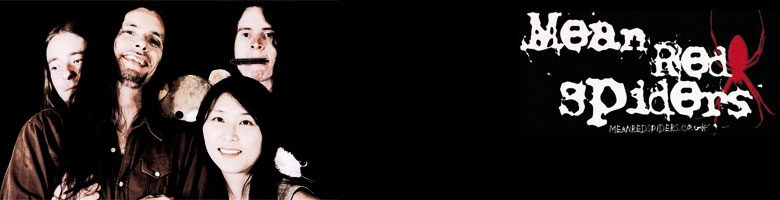
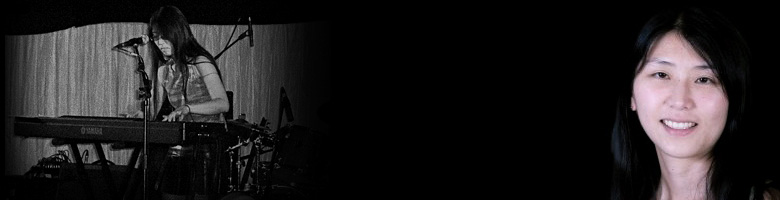
initial commit

diff --git a/web/index.html b/web/index.html
@@ -8,14 +8,14 @@
   <link rel="shortcut icon" type="image/x-icon" href="#" />
   <style type="text/css">
   /*<![CDATA[*/
-    @import url("common/mrs_screen.css") screen;
-    @import url("common/mrs_print.css") print;
+    @import url("common/yukibusiness_screen.css") screen;
+    @import url("common/yukibusiness_print.css") print;
   /*]]>*/
   </style>
   <!--[if lt IE 8]>
     <script src="common/IE8.js" type="text/javascript"></script>
   <![endif]-->
-  <title>Mean Red Spiders / Test Page</title>
+  <title>Yuki&#8217;s Business &hearts; Test Page</title>
 </head>
 <body>
 
@@ -28,8 +28,8 @@
   -->
   <div id="headWrapper">  <!-- START HEADER WRAPPER -->
     <div id="headText">  <!-- START HEADER TEXT -->
-      <div class="slogan">  <!-- START SLOGAN -->
-        <strong>&#8220;Bristols best (and hairiest) Blues band!&#8221;</strong>
+      <div id="logoTxt">  <!-- START SLOGAN -->
+        Yuki&#8217;s <span class="red">&hearts;</span> Business Site
       </div>  <!-- END SLOGAN -->
     </div>  <!-- END HEADER TEXT -->
   </div>  <!-- END HEADER WRAPPER -->
@@ -62,37 +62,49 @@
          ================================================================
     -->
     <div id="navPanel">  <!-- START NAVIGATION PANEL -->
-      <div id="navLinks">  <!-- START NAVIGATION LINKS -->
+      <div id="navPanelTop">  <!-- START NAVIGATION PANEL TOP -->
         <h2>Navigation</h2>
         <p>
         Please select a link from below to go to that area.
         </p>
         <ul>
         <li>
-          <a href="#">See us live (dates)</a>
+          <a href="#">Lorem vero ut veniam</a>
         </li><li>
-          <a href="#">About the band</a>
+          <a href="#">praesent accumsan</a>
         </li><li>
-          <a href="#">Band history</a>
+          <a href="#">facilisis dignissim</a>
         </li><li>
-          <a href="#">Our instruments</a>
+          <a href="#">vero ut veniam</a>
         </li><li>
-          <a href="#">Our new (live) album</a>
+          <a href="#">praesent accumsan</a>
         </li><li>
-          <a href="#">Kudos, et al...</a>
+          <a href="#">facilisis dignissim</a>
         </li>
         </ul>
-      </div>  <!-- END NAVIGATION LINKS -->
-      <div id="navCont">  <!-- START NAVIGATION REMAINDER CONTENT -->
-        <h2>New Album</h2>
-        <p>
-        Our new album is now available, details below.
-        </p>
-        <a href="#" title="Test text for linked image"><img src="imgs/shared/smAlbumCover.jpg" alt="" width="122" height="122" class="imgC" /></a>
+        <h2>Yuki's Piano</h2>
         <p>
         Some test text to see how the colours will work accumsan eum facilisis dignissim esse.
         </p>
-      </div>  <!-- END NAVIGATION REMAINDER CONTENT -->
+        <ul>
+        <li>
+          <a href="#">Lorem vero ut veniam</a>
+        </li><li>
+          <a href="#">praesent accumsan</a>
+        </li><li>
+          <a href="#">facilisis dignissim</a>
+        </li>
+        </ul>
+        <p>
+        Some test text to see how the colours will work accumsan eum facilisis dignissim esse.
+        </p>
+      </div>  <!-- END NAVIGATION PANEL TOP -->
+      <div id="navPanelBott">  <!-- START NAVIGATION PANEL BOTTOM -->
+        <p>
+        Love &amp; Joy &#8230;
+        </p>
+        Yuki <span class="red">&hearts;</span>
+      </div>  <!-- END NAVIGATION PANEL BOTTOM -->
     </div>  <!-- END NAVIGATION PANEL -->
 
     <div class="clearBreadcrumbs"></div>
@@ -103,24 +115,23 @@
          ============================================================
     -->
     <div id="newsPanel">  <!-- START LEFT HAND NEWS PANEL -->
-      <h2>The Band</h2>
-      <dl class="bandMembers">
-        <dt><a href="#" title="Dave Harker">Dave Harker</a></dt>
-          <dd>Guitar, Vocals</dd>
-        <dt><a href="#" title="Yuki">Yuki</a></dt>
-          <dd>Keyboard, Bass, Vocals</dd>
-        <dt><a href="#" title="Jon Vaughan">Jon Vaughan</a></dt>
-          <dd>Harmonica</dd>
-        <dt><a href="#" title="Michael Davis">Michael Davis</a></dt>
-          <dd>Drums</dd>
-      </dl>
-      
-      <h2>News</h2>
+      <h2>praesent accumsan</h2>
       <p>
       Lorem vero ut veniam praesent accumsan eum <a href ="#">facilisis dignissim</a> facilisis dignissim esse
       </p><p>
       Lorem vero ut veniam praesent accumsan eum facilisis dignissim esse
       </p>
+      <h2>Lorem vero ut</h2>
+      <p>
+      We translate our solutions into the context of the industry of our client to accommodate differing needs and expectations.  We can do this because we’ve been there before – either in a project role or a line role – many times.
+      </p>
+      <h2>praesent accumsan</h2>
+      <p>
+      Lorem vero ut veniam praesent accumsan eum <a href ="#">facilisis dignissim</a> facilisis dignissim esse
+      </p><p>
+      Lorem vero ut veniam praesent accumsan eum facilisis dignissim esse
+      </p>
+      <h2>Lorem vero ut</h2>
       <p>
       We translate our solutions into the context of the industry of our client to accommodate differing needs and expectations.  We can do this because we’ve been there before – either in a project role or a line role – many times.
       </p>
@@ -133,9 +144,9 @@
     -->
     <div id="mainContent">  <!-- START MAIN CONTENT -->
       <h2>This is the main content panel</h2>
-      <a href="#" title="Test text for linked image"><img src="imgs/sm/test_jon.jpg" alt="" width="90" height="141" class="imgR" /></a>
-      <h3>Jon blows up a storm</h3>
+      <h3>Lorem vero ut veniam praesent</h3>
       <p>
+      <img src="imgs/test/yukiKomono.jpg" alt="img" width="150" height="233" class="imgR" />
       Lorem vero ut veniam praesent <a href ="#">facilisis dignissim</a> accumsan eum facilisis dignissim esse, Lorem vero ut veniam praesent accumsan eum facilisis dignissim esse.
       </p><p>
       Lorem vero ut veniam praesent accumsan eum facilisis dignissim esse Lorem vero ut veniam praesent accumsan eum facilisis dignissim esse
@@ -143,9 +154,9 @@
       <p>
       Lorem vero ut veniam praesent <a href ="#">facilisis dignissim</a> accumsan eum facilisis dignissim esse, Lorem vero ut veniam praesent accumsan eum facilisis dignissim esse.
       </p>
-      <h3>Hark, is that Dave?</h3>
-      <a href="#" title="Test text for linked image"><img src="imgs/sm/test_dave2.jpg" alt="" width="90" height="67" class="imgL" /></a>
+      <h3>Accumsan eum facilisis dignissim</h3>
       <p>
+      <img src="imgs/test/yukiBackView.jpg" alt="" width="180" height="158" class="imgL" />
       Lorem vero ut veniam praesent <a href ="#">facilisis dignissim</a> accumsan eum facilisis dignissim esse, Lorem vero ut veniam praesent accumsan eum facilisis dignissim esse.
       Lorem vero ut veniam praesent <a href ="#">facilisis dignissim</a> accumsan eum facilisis dignissim esse, Lorem vero ut veniam praesent accumsan eum facilisis dignissim esse.
       Lorem vero ut veniam praesent <a href ="#">facilisis dignissim</a> accumsan eum facilisis dignissim esse, Lorem vero ut veniam praesent accumsan eum facilisis dignissim esse.
@@ -172,7 +183,7 @@
   -->
   <div id="footWrapper">  <!-- START FOOTER WRAPPER -->
     <div class="halfL"> <!-- START FOOTER LEFT -->
-      &copy; Copyright Mean Red Spiders 2009
+      &copy; Copyright Yuki 2009
     </div>  <!-- END FOOTER LEFT -->
     <div class="halfR right"> <!-- START FOOTER RIGHT -->
       <a href="index.html" title="Home Page">Home</a> &#8226; <a href="sitemap.html" title="Sitemap">Sitemap</a> &#8226; <a href="contact.html" title="Contact">Contact</a>

diff --git a/web/common/yukibusiness_screen.css b/web/common/yukibusiness_screen.css
@@ -11,7 +11,7 @@ body {
   font: 75% Arial, Helvetica, sans-serif;
   line-height: 150%;
   text-align: justify;
-  color: #555;
+  color: #4d5060;
 }
 
 #completeWrap, #headWrapper, #contentWrapper, #footWrapper {
@@ -37,40 +37,42 @@ body {
 }
 
 #headText {
-  float: right;
-  width: 400px;
-  text-align: right;
-  padding: 148px 8px 0 0;
+  padding: 4px 0 0 8px;
+}
+
+#logoTxt {
+  clear: left;
+  font: bold 320% "Trebuchet MS", Arial, Helvetica, sans-serif;
+  letter-spacing: 9px;
+  margin: 148px 0 0 1px;
+  color: #efefef;
 }
 
 .slogan strong {
-  font: 120% "Trebuchet MS", Arial, Helvetica, sans-serif;
   color: #e0e0e0;
 }
 
 /* Breadcrumbs
 --------------------------------------------------------------------*/
 
-#breadCrumbs {
-  background: #901220 url(../imgs/shared/crumbsTopRightCorner.png) top right no-repeat;
+#breadCrumbs { /* 242e37 4d5060 */
+  background: #bf1527 url(../imgs/shared/crumbsTopRightCorner.png) top right no-repeat;
   width: 614px;
   float: left;
-  padding: 8px;
+  padding: 8px 8px 10px 8px;
   color: #f3f3f3;
 }
 
-
-/* Left Hand News Panel
+/* Left Hand
 --------------------------------------------------------------------*/
 
-#newsPanel {
-  background: transparent;
+#newsPanel { /* 772c00 */
   float: left;
   font-size: 90%;
   line-height: 16px;
   width: 184px;
   padding: 0 8px 8px 8px;
-  color: #772c00;
+  color: #222;
 }
 
 dl.bandMembers {
@@ -105,42 +107,45 @@ dl.bandMembers dt:after {
   margin: 12px 0 12px 36px;
 }
 
-/* Right Hand Navigation Panel
+/* Right Hand
 --------------------------------------------------------------------*/
 
 #navPanel {
   float: right;
   width: 150px;
+  color: #aaa;
+}
+
+#navPanelTop {
+  background: #000 url(../imgs/shared/navTopBg.jpg) no-repeat;
+  padding: 50px 8px 0 8px;
+}
+
+#navPanelBott {
+  background: #000 url(../imgs/shared/iconNotesBg.png) 96px 4px no-repeat;
+  height: 64px;
+  padding: 4px 8px 0 8px;
+  color: #fff;
 }
 
 #navPanel ul {
   list-style: none;
+  margin: -12px 0 12px 0;
 }
 
-#navPanel li a { /* 56758c 901220 */
+#navPanel li a {
   display: block;
   text-decoration: none;
   padding: 6px 0 6px 4px;
-  border-bottom: #999 1px dotted;
-  color: #d0a593;
+  border-bottom: #666 1px dotted;
+  color: #ae738c;
 }
 
 #navPanel li a:hover {
-  background-color: #222;
-  color: #e5d372;
+  background-color: #bf1527;
+  color: #fff;
 }
 
-#navLinks {
-  background-color: #000;
-  padding: 8px 8px 0 8px;
-  color: #999;
-}
-
-#navCont {
-  background: url(../imgs/shared/navFadeBg.png) no-repeat;
-  padding: 12px 8px 0 8px;
-  color: #aaa;
-}
 
 /* Footer
 --------------------------------------------------------------------*/
@@ -185,16 +190,20 @@ div.clearer {
 
 .imgL {
   float: left;
-  margin: 4px 10px 4px 0;
+  margin: 2px 10px 4px 0;
 }
 
 .imgR {
   float: right;
-  margin: 4px 0 4px 10px;
+  margin: 2px 0 4px 10px;
 }
 
 .noScreen {
   display: none;
+}
+
+.red {
+  color: #bf1527;
 }
 
 /* Links
@@ -254,7 +263,7 @@ h1 {
 #mainContent h2 {
   font-size: 160%;
   margin: 0 0 12px 0;
-  color: #666;
+  color: #333;
 }
 
 #navPanel h2 {
@@ -273,7 +282,7 @@ h2 {
 h3 {
   font-size: 110%;
   margin: 0 0 4px 0;
-  color: #999;
+  color: #888;
 }
 
 p {
